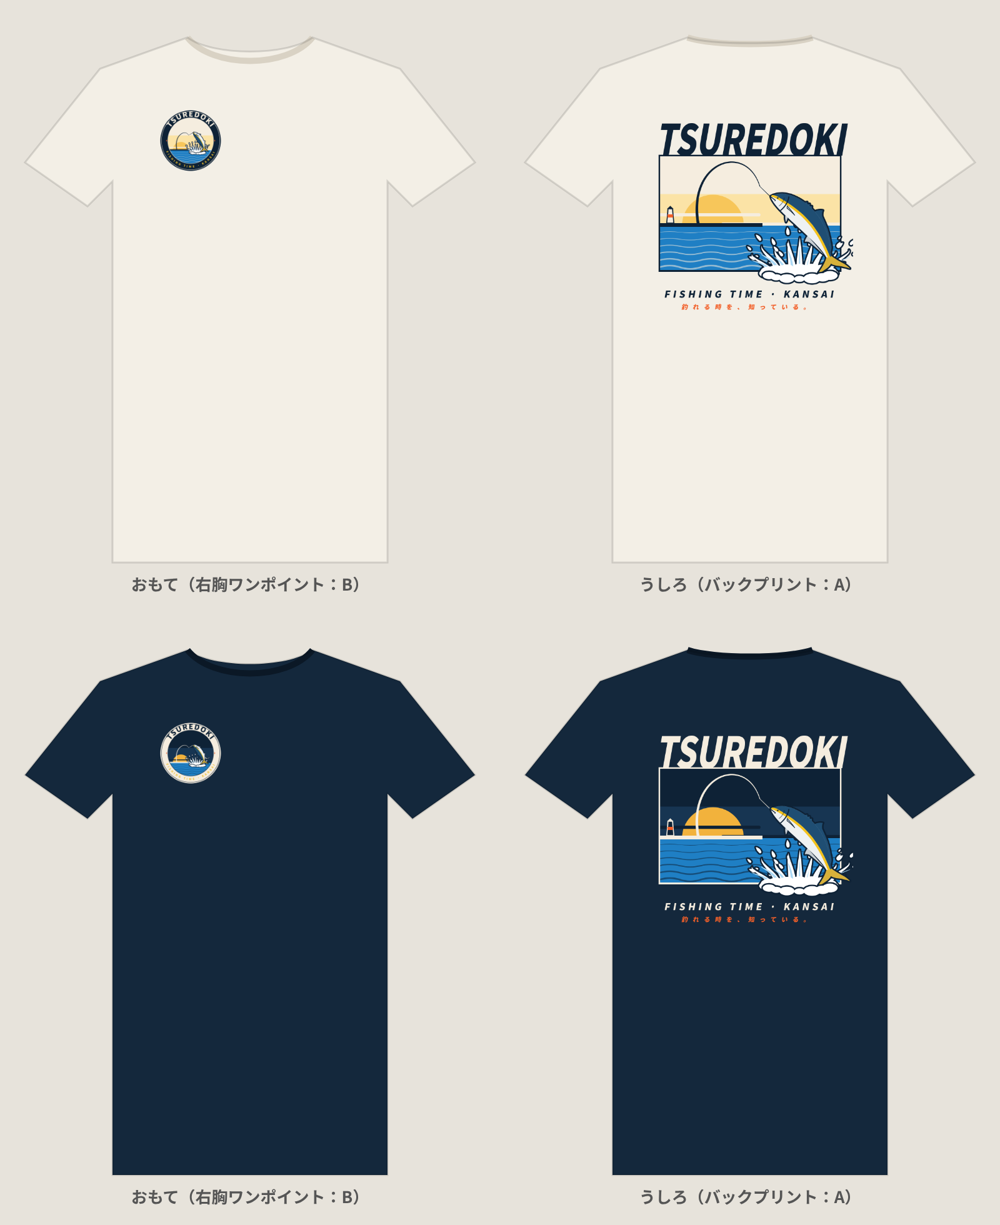
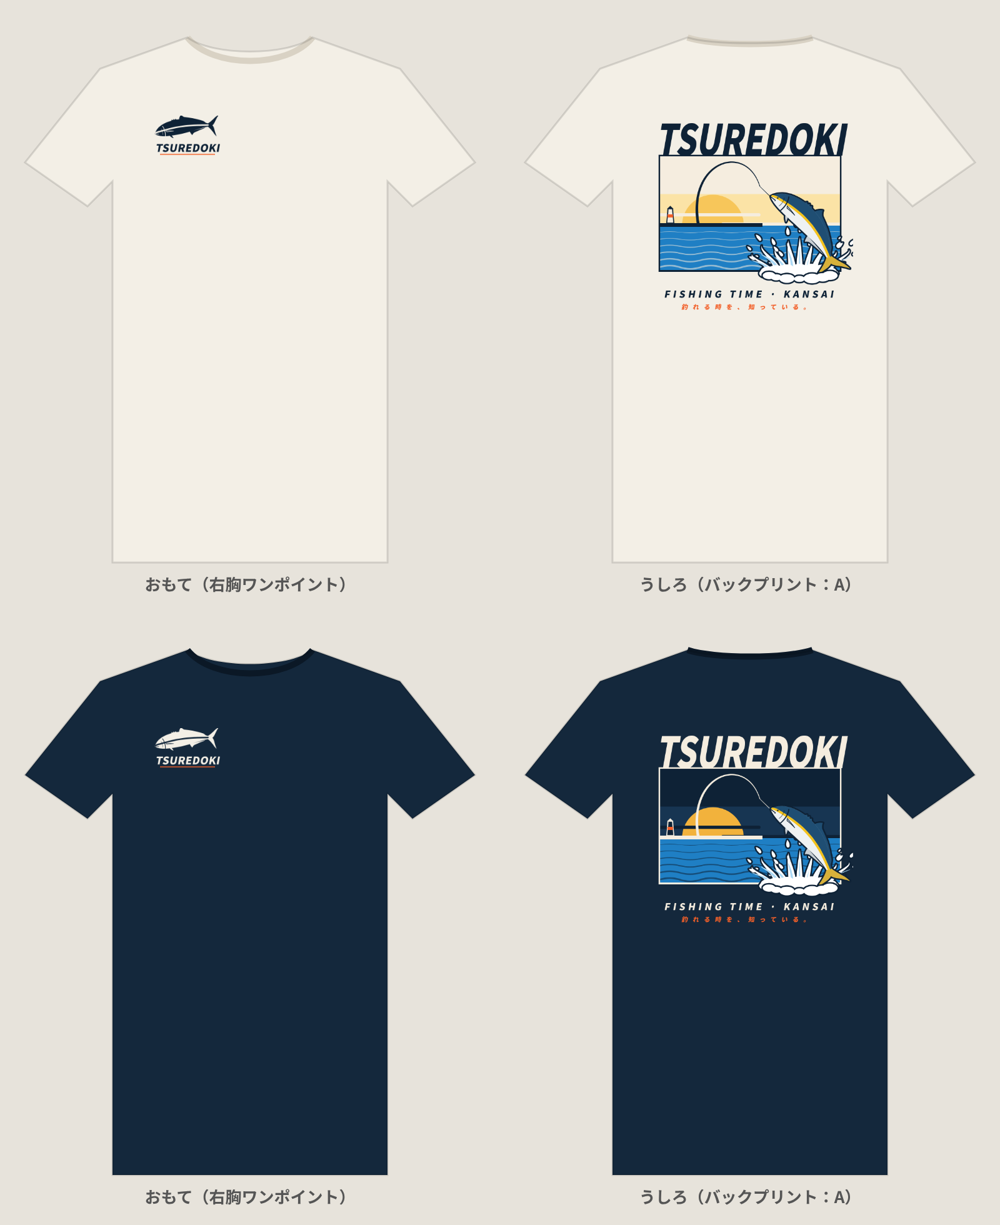
グッズ：Tシャツの右胸をシンプルなブリ＋文字に変更
Claude-Session: https://claude.ai/code/session_0136AjP6UKpQXASPdXzdeXrp

diff --git a/content/goods/src/chest-marks.js b/content/goods/src/chest-marks.js
@@ -1,0 +1,24 @@
+const {buriG2}=require('./buri2.js');
+const JP="Noto Sans CJK JP";
+// one-colour buri: body in ink, stripe & eye knocked out in paper
+const mono=(x,y,rot,s,ink,paper,bend=0)=>buriG2({x,y,rot,scale:s,bend,outline:0,c:{ink:paper,back:ink,belly:ink,stripe:paper,tail:ink,fin:ink}});
+// 1: buri + TSUREDOKI
+const m1=(ink,acc,paper)=>`<svg xmlns="http://www.w3.org/2000/svg" viewBox="0 0 600 340" width="600" height="340">
+ ${mono(40,150,-8,.5,ink,paper,-60)}
+ <g transform="translate(300 290) skewX(-10)"><text text-anchor="middle" font-family="${JP}" font-weight="900" font-size="84" fill="${ink}" letter-spacing="2">TSUREDOKI</text></g>
+ <rect x="80" y="306" width="440" height="8" fill="${acc}"/></svg>`;
+// 2: circle line badge, 1 colour
+const m2=(ink,acc,paper)=>`<svg xmlns="http://www.w3.org/2000/svg" viewBox="0 0 400 400" width="400" height="400">
+ <defs><path id="t" d="M60 200 A140 140 0 0 1 340 200"/><path id="b" d="M75 200 A125 125 0 0 0 325 200"/></defs>
+ <circle cx="200" cy="200" r="190" fill="none" stroke="${ink}" stroke-width="14"/>
+ <circle cx="200" cy="200" r="104" fill="none" stroke="${ink}" stroke-width="6"/>
+ <text font-family="${JP}" font-weight="900" font-size="46" fill="${ink}" letter-spacing="6"><textPath href="#t" startOffset="50%" text-anchor="middle">TSUREDOKI</textPath></text>
+ <text font-family="${JP}" font-weight="900" font-size="24" fill="${ink}" letter-spacing="8" dy="24"><textPath href="#b" startOffset="50%" text-anchor="middle">KANSAI · JAPAN</textPath></text>
+ ${mono(108,214,-14,.2,ink,paper,-40)}
+ <circle cx="40" cy="200" r="7" fill="${acc}"/><circle cx="360" cy="200" r="7" fill="${acc}"/></svg>`;
+// 3: just the leaping buri + small type stacked
+const m3=(ink,acc,paper)=>`<svg xmlns="http://www.w3.org/2000/svg" viewBox="0 0 400 470" width="400" height="470">
+ ${mono(140,30,62,.36,ink,paper,-140)}
+ <path d="M90 360 q55 -18 110 0 t110 0" stroke="${acc}" stroke-width="10" fill="none" stroke-linecap="round"/>
+ <g transform="translate(200 445) skewX(-10)"><text text-anchor="middle" font-family="${JP}" font-weight="900" font-size="60" fill="${ink}">TSUREDOKI</text></g></svg>`;
+module.exports={m1,m2,m3};

diff --git a/content/goods/README.md b/content/goods/README.md
@@ -1,7 +1,7 @@
 # ツレドキ オリジナルグッズ
 
 ## Tシャツ第1弾（2026-11-08 オーナー決定）
-- おもて：右胸ワンポイントに **B（丸エンブレム）**
+- おもて：右胸ワンポイントに **ブリ＋TSUREDOKI（1色シルエット）**（2026-11-08 変更）
 - うしろ：バックプリントに **A（枠から飛び出すブリ）**
 - 色：生成りT（`*-light.png`）と紺T（`*-dark.png`）
 - 仕上がりイメージ：`tee-front-back.png`
@@ -11,8 +11,10 @@
 |---|---|---|
 | print/A-light.png | 4000×4320 | 生成りTの背中 |
 | print/A-dark.png | 4000×4320 | 紺Tの背中 |
-| print/B-light.png | 3000×3000 | 生成りTの右胸・ステッカー・キャップ |
-| print/B-dark.png | 3000×3000 | 紺Tの右胸 |
+| print/chest-light.png | 3600×2040 | 生成りTの右胸 |
+| print/chest-dark.png | 3600×2040 | 紺Tの右胸 |
+| print/B-light.png | 3000×3000 | ステッカー・キャップ（丸エンブレム） |
+| print/B-dark.png | 3000×3000 | 紺地のグッズ用 |
 
 ## デザインのルール
 - 朝日は淡い黄色の半円だけ。光の筋は入れない（旭日旗に見えないように）。
